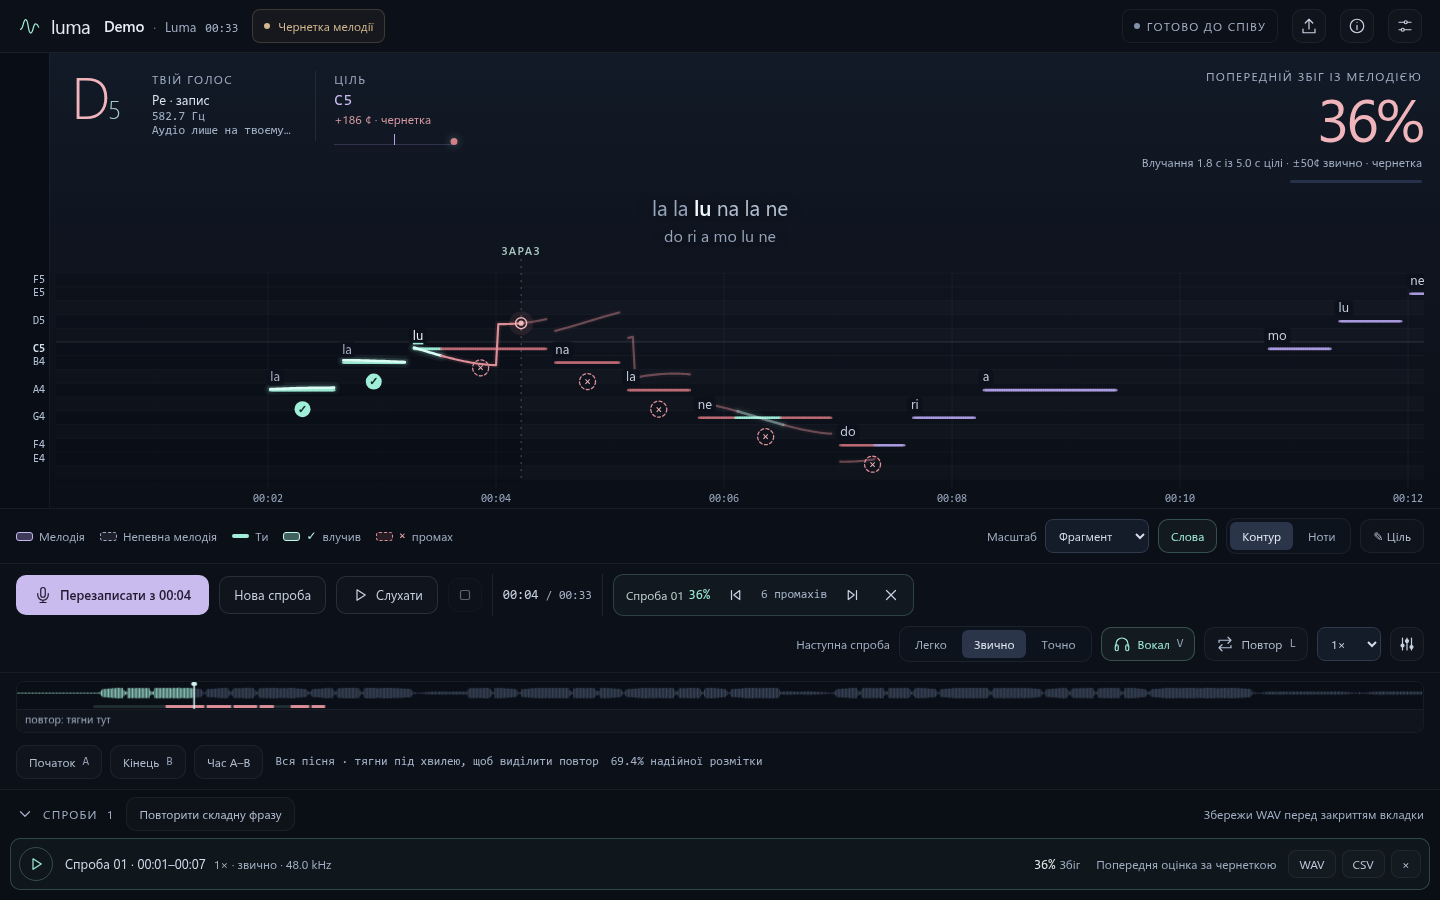
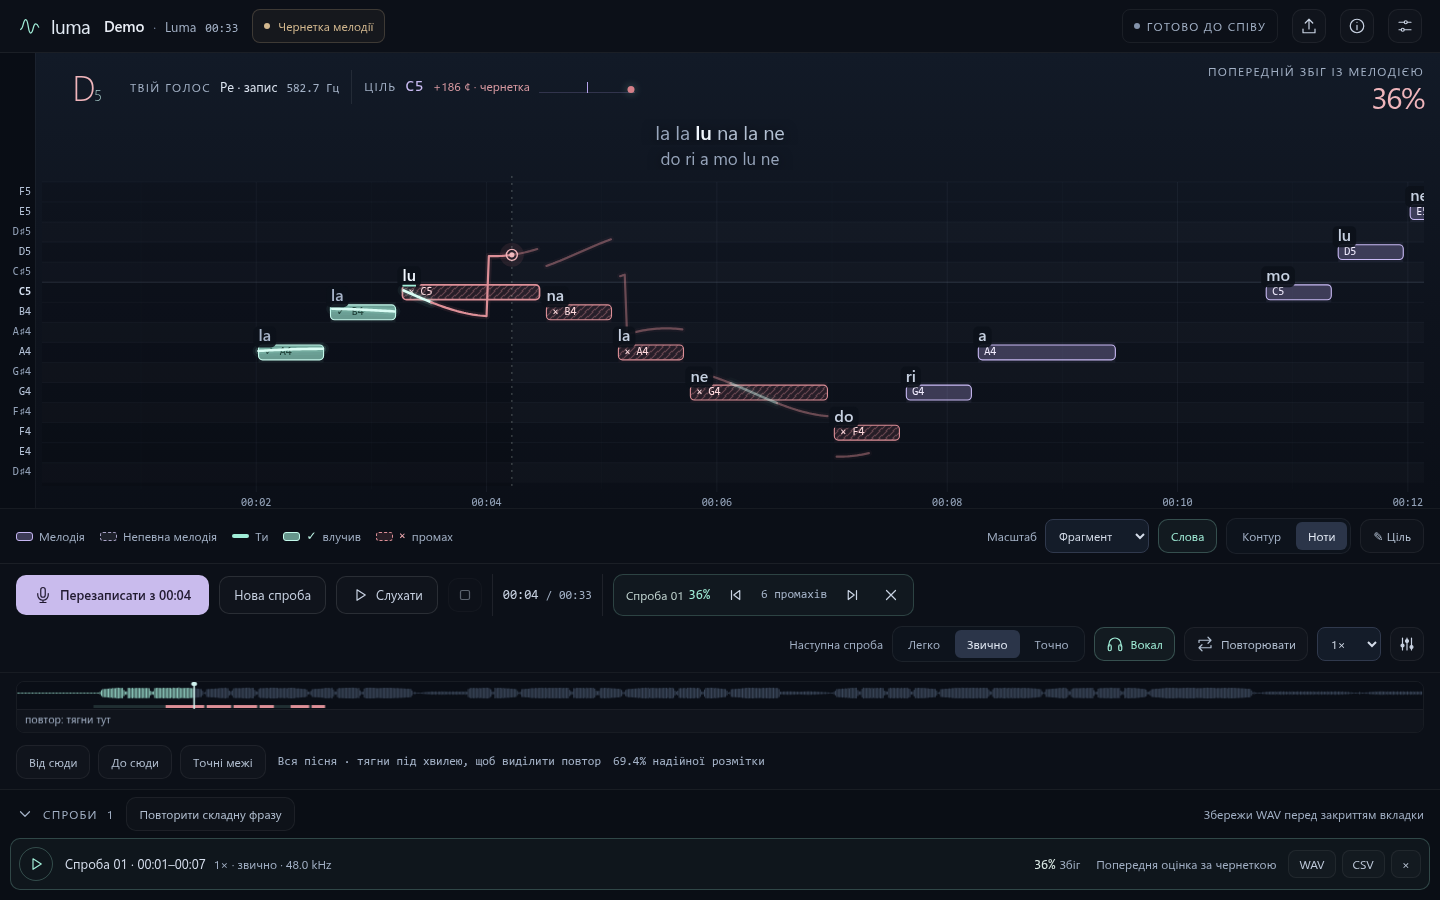
Docs: the notes view is what a trainer opens on
README screenshots regenerated from the demo, and the two sentences that
described the old default and the old hit bar now describe the current ones.

diff --git a/README.md b/README.md
@@ -4,13 +4,13 @@ Luma turns a song into a single HTML file where you sing over the backing track 
 in real time. Drop a song into **Luma Studio**, wait a few minutes, open the trainer in a browser. No accounts, no uploads
 of your voice, no server after the file is built.
 
-![Luma trainer: contour view with lyrics riding the melody, a recorded attempt and the live match score](docs/screenshots/trainer-desktop.png)
+![Luma trainer: notes view with lyrics riding the melody, a recorded attempt and the live match score](docs/screenshots/trainer-desktop.png)
 
 ## What the trainer does
 
-- **Melody on a piano roll.** Contour or notes view on a lit stage with named C lines. Words sit right above the melody at
-  the moment they are sung, and the current and next line ride in a band of their own; on a phone that band is a full row,
-  so nothing ever covers the readout.
+- **Melody on a piano roll.** A trainer opens on the notes view — named bars a beginner can read — with the contour view a
+  click away. Named C lines on a lit stage. Words sit right above the melody at the moment they are sung, and the current
+  and next line ride in a band of their own; on a phone that band is a full row, so nothing ever covers the readout.
 - **Live match score.** Hits ÷ frames with a target, counted once per 20 ms. Silence under a note is a miss; frames with no
   target are excluded; draft notes count and are labelled as draft. Hit notes turn mint with ✓, misses hatched red with ×,
   so the two differ in pattern as well as colour.

diff --git a/docs/SCORING.md b/docs/SCORING.md
@@ -25,8 +25,9 @@ attempt, so a card keeps the rules it was recorded with.
 
 ## Colour and non-colour cues
 Fill and outline carry the state on their own, so hit and miss stay apart for an eye that does not read the colours. In the
-notes view a hit is a filled bar with a solid outline and a ✓; a miss is a diagonally hatched bar with an ×, dotted when the
-miss was silence; a draft note has a dashed outline. In the contour view every scored note gets a marker under it: a filled
+notes view a hit is the only solid bar on the roll, carrying a ✓ and its note name in dark ink; a miss is a diagonally
+hatched bar with an ×, dotted when the miss was silence; a draft note has a dashed outline and light type. Every label is
+measured off the canvas against the bar under it and has to clear 4.5:1. In the contour view every scored note gets a marker under it: a filled
 disc with a ✓ for a hit, a dashed ring with an × for a miss. The sung trace is mint inside the corridor, subdued red
 outside, dim where there was no target. The current note glows while you are inside it.
 
